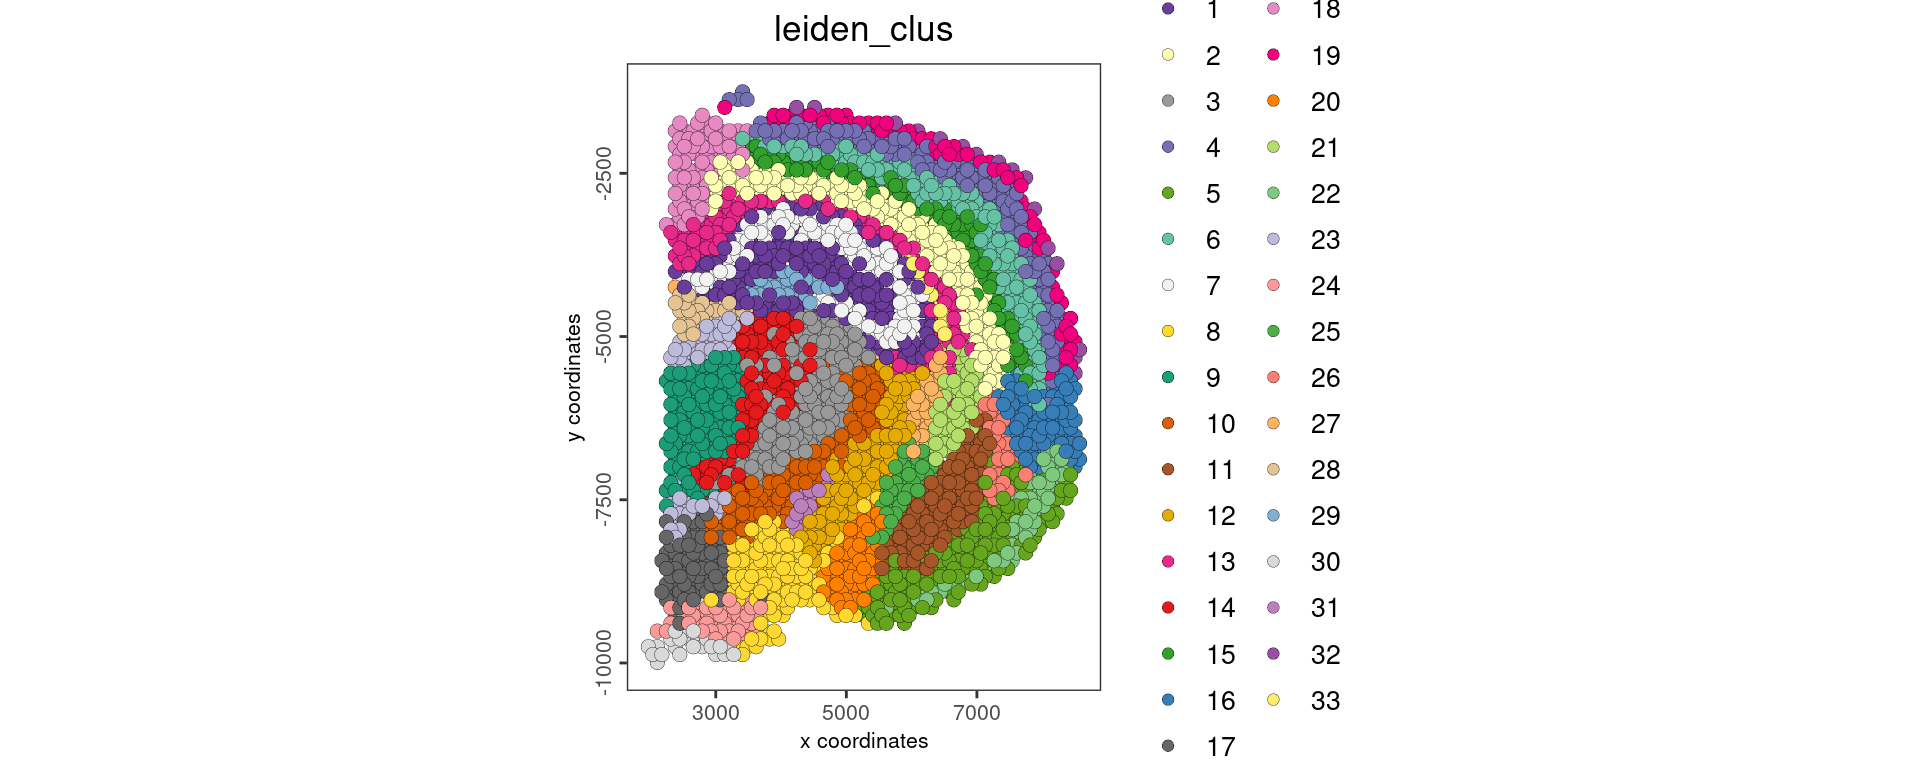
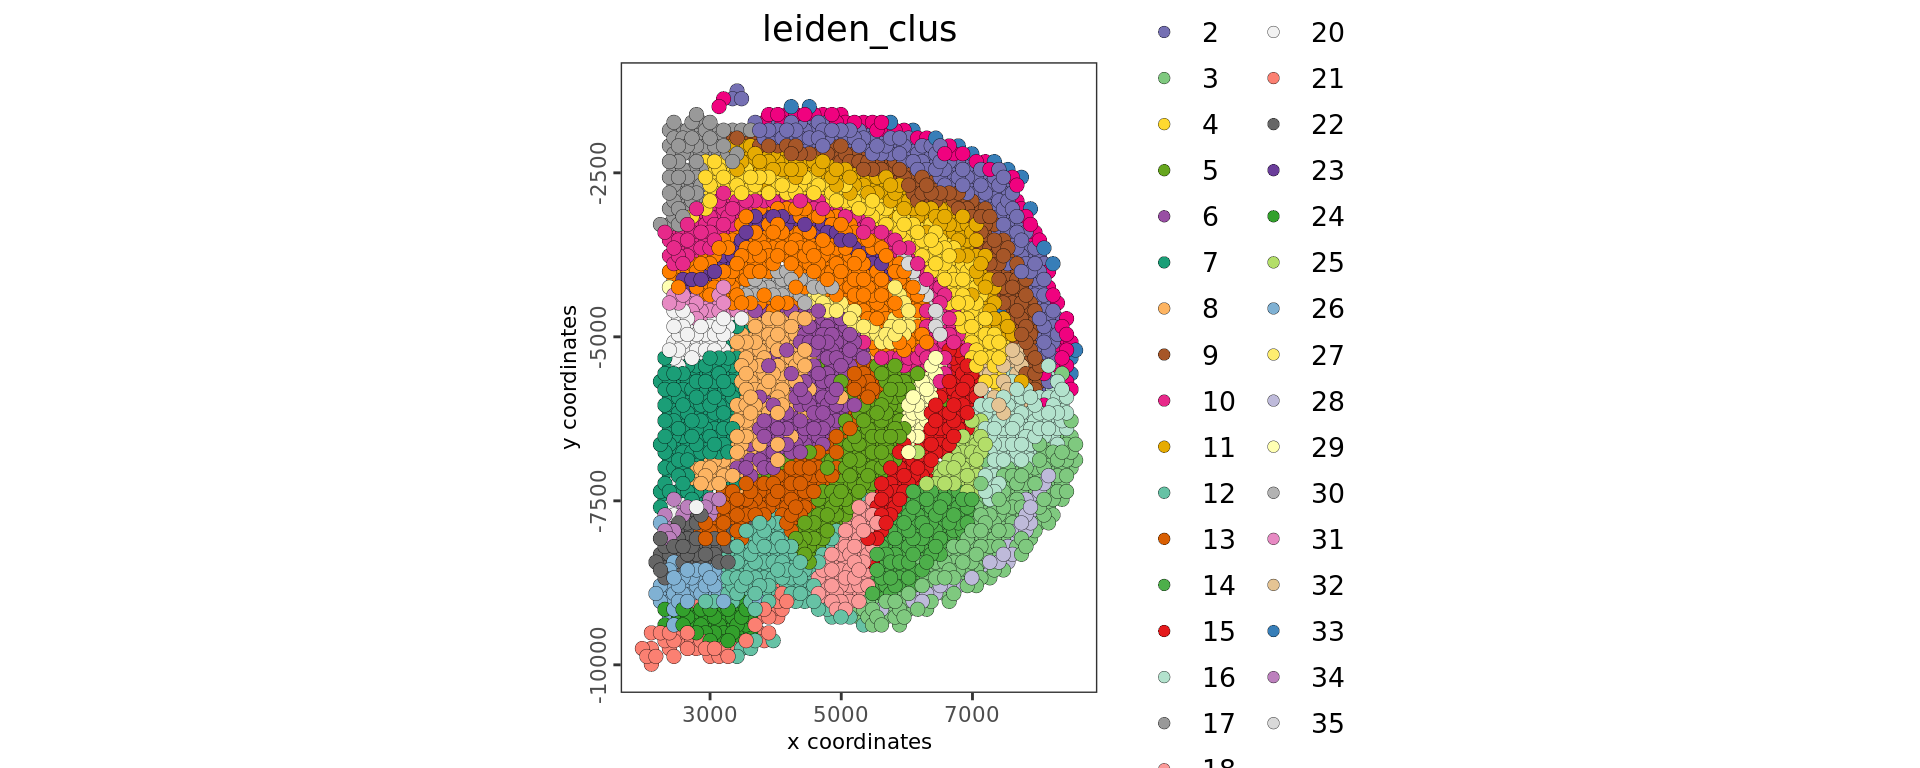
up

Changed region(s): [[0.2812, 0.0, 0.7188, 1.0], [0.5938, 0.2188, 0.625, 0.25], [0.5938, 0.1562, 0.625, 0.1875]]

diff --git a/docs/Giotto.html b/docs/Giotto.html
@@ -443,7 +443,7 @@ aria-hidden="true"></span> </a>
 <div class="tab-content">
 <div id="summary" class="tab-pane fade in active">
 <p>
-<strong>Last updated:</strong> 2025-04-13
+<strong>Last updated:</strong> 2025-06-05
 </p>
 <p>
 <strong>Checks:</strong> <span
@@ -613,6 +613,7 @@ Ignored files:
     Ignored:    .RData
     Ignored:    .Rhistory
     Ignored:    .Rproj.user/
+    Ignored:    analysis/figure/
 
 Untracked files:
     Untracked:  KODAMA.svg
@@ -640,17 +641,12 @@ Untracked files:
     Untracked:  code/VisiumHDassignment.py
     Untracked:  code/deep learning code DLPFC.R
     Untracked:  code/save tiles.py
-    Untracked:  data/Adenocarcinoma.csv
     Untracked:  data/Annotations/
     Untracked:  data/DLFPC-Br5292-input.RData
     Untracked:  data/DLFPC-Br5595-input.RData
     Untracked:  data/DLFPC-Br8100-input.RData
     Untracked:  data/DLPFC-general.RData
     Untracked:  data/MERFISH-input.RData
-    Untracked:  data/spots_classification_ALL.csv
-    Untracked:  data/spots_classification_Acinar_Cell_Carcinoma.csv
-    Untracked:  data/spots_classification_IF.csv
-    Untracked:  data/spots_classification_Normal_prostate.csv
     Untracked:  data/trajectories.RData
     Untracked:  data/trajectories_VISIUMHD.RData
     Untracked:  output/BANSKY-results.RData
@@ -688,6 +684,16 @@ Untracked files:
     Untracked:  output/KODAMA_DLPFC_Br5595.svg
     Untracked:  output/KODAMA_DLPFC_Br5595_slide.svg
     Untracked:  output/Loupe.csv
+    Untracked:  output/Loupe_CXCL14.csv
+    Untracked:  output/Loupe_CXCL3.csv
+    Untracked:  output/Loupe_GREM1.csv
+    Untracked:  output/Loupe_HTRA3.csv
+    Untracked:  output/Loupe_IGFBP3.csv
+    Untracked:  output/Loupe_IGFBP5.csv
+    Untracked:  output/Loupe_MGP.csv
+    Untracked:  output/Loupe_MMP11.csv
+    Untracked:  output/Loupe_SFRP4.csv
+    Untracked:  output/Loupe_TIMP3.csv
     Untracked:  output/MERFISH-BANSKY-results.RData
     Untracked:  output/MERFISH-BASS-results.RData
     Untracked:  output/MERFISH-BayesSpace-results.RData
@@ -696,6 +702,9 @@ Untracked files:
     Untracked:  output/MERFISH-PRECAST-results.RData
     Untracked:  output/MERFISH.RData
     Untracked:  output/Nonspatial-results.RData
+    Untracked:  output/Prostate-GSEA.csv
+    Untracked:  output/Prostate-KODAMA.RData
+    Untracked:  output/Prostate-trajectory.csv
     Untracked:  output/Prostate.RData
     Untracked:  output/VisiumHD-RNA.RData
     Untracked:  output/VisiumHD-genes.pdf
@@ -711,10 +720,6 @@ Untracked files:
     Untracked:  output/prostate1.svg
     Untracked:  output/prostate2.svg
     Untracked:  output/prostate3.svg
-    Untracked:  output/prostate4.svg
-    Untracked:  output/prostate5.svg
-    Untracked:  output/prostate6.svg
-    Untracked:  output/prostate7.svg
     Untracked:  output/subclusters1.csv
     Untracked:  output/subclusters2.csv
     Untracked:  output/subclusters3.csv
@@ -783,6 +788,8 @@ Unstaged changes:
     Modified:   analysis/VisiumHD.Rmd
     Modified:   code/VisiumHD_CRC_download.sh
     Deleted:    data/Pathology.csv
+    Deleted:    data/merfish.Rmd
+    Deleted:    data/vis.R
 
 </code></pre>
 <p>
@@ -1234,10 +1241,97 @@ Finished parallel computation
 <pre class="r"><code>visium_brain &lt;- createNearestNetwork(gobject = visium_brain,dim_reduction_to_use = &quot;KODAMA&quot;, dim_reduction_name=&quot;KODAMA&quot;,dimensions_to_use = 1:2, k = 15)
 
 ## Leiden clustering
-#visium_brain &lt;- doLeidenCluster(gobject = visium_brain, resolution = 0.5, n_iterations = 1000,network_name = &quot;sNN.KODAMA&quot;)
+visium_brain &lt;- doLeidenCluster(gobject = visium_brain, resolution = 0.5, n_iterations = 1000,network_name = &quot;sNN.KODAMA&quot;)
 
-#dimPlot2D(gobject = visium_brain, dim_reduction_to_use =&quot;KODAMA&quot;, dim_reduction_name=&quot;KODAMA&quot;,cell_color = &#39;leiden_clus&#39;,point_size = 2)
-#spatPlot2D(gobject = visium_brain,cell_color = &#39;leiden_clus&#39;,point_size = 2.5)</code></pre>
+dimPlot2D(gobject = visium_brain, dim_reduction_to_use =&quot;KODAMA&quot;, dim_reduction_name=&quot;KODAMA&quot;,cell_color = &#39;leiden_clus&#39;,point_size = 2)</code></pre>
+<p><img src="figure/Giotto.Rmd/unnamed-chunk-7-1.png" width="960" style="display: block; margin: auto;" /></p>
+<p>
+<button type="button" class="btn btn-default btn-xs btn-workflowr btn-workflowr-fig" data-toggle="collapse" data-target="#fig-unnamed-chunk-7-1">
+Past versions of unnamed-chunk-7-1.png
+</button>
+</p>
+<div id="fig-unnamed-chunk-7-1" class="collapse">
+<div class="table-responsive">
+<table class="table table-condensed table-hover">
+<thead>
+<tr>
+<th>
+Version
+</th>
+<th>
+Author
+</th>
+<th>
+Date
+</th>
+</tr>
+</thead>
+<tbody>
+<tr>
+<td>
+<a href="https://github.com/tkcaccia/KODAMA-Analysis/blob/6f7daaccbcc7b968bc736664a45f9ebcaf73fba3/docs/figure/Giotto.Rmd/unnamed-chunk-7-1.png" target="_blank">6f7daac</a>
+</td>
+<td>
+Stefano Cacciatore
+</td>
+<td>
+2024-07-19
+</td>
+</tr>
+<tr>
+<td>
+<a href="https://github.com/tkcaccia/KODAMA-Analysis/blob/911c63e13eb2b8e91f9a23137ffb1af82d54083b/docs/figure/Giotto.Rmd/unnamed-chunk-7-1.png" target="_blank">911c63e</a>
+</td>
+<td>
+GitHub
+</td>
+<td>
+2024-07-16
+</td>
+</tr>
+</tbody>
+</table>
+</div>
+</div>
+<pre class="r"><code>spatPlot2D(gobject = visium_brain,cell_color = &#39;leiden_clus&#39;,point_size = 2.5)</code></pre>
+<p><img src="figure/Giotto.Rmd/unnamed-chunk-7-2.png" width="960" style="display: block; margin: auto;" /></p>
+<p>
+<button type="button" class="btn btn-default btn-xs btn-workflowr btn-workflowr-fig" data-toggle="collapse" data-target="#fig-unnamed-chunk-7-2">
+Past versions of unnamed-chunk-7-2.png
+</button>
+</p>
+<div id="fig-unnamed-chunk-7-2" class="collapse">
+<div class="table-responsive">
+<table class="table table-condensed table-hover">
+<thead>
+<tr>
+<th>
+Version
+</th>
+<th>
+Author
+</th>
+<th>
+Date
+</th>
+</tr>
+</thead>
+<tbody>
+<tr>
+<td>
+<a href="https://github.com/tkcaccia/KODAMA-Analysis/blob/6f7daaccbcc7b968bc736664a45f9ebcaf73fba3/docs/figure/Giotto.Rmd/unnamed-chunk-7-2.png" target="_blank">6f7daac</a>
+</td>
+<td>
+Stefano Cacciatore
+</td>
+<td>
+2024-07-19
+</td>
+</tr>
+</tbody>
+</table>
+</div>
+</div>
 <br>
 <p>
 <button type="button" class="btn btn-default btn-workflowr btn-workflowr-sessioninfo" data-toggle="collapse" data-target="#workflowr-sessioninfo" style="display: block;">
@@ -1277,68 +1371,68 @@ other attached packages:
 [13] minerva_1.5.10    workflowr_1.7.1  
 
 loaded via a namespace (and not attached):
-  [1] rstudioapi_0.17.1           jsonlite_2.0.0             
-  [3] magrittr_2.0.3              magick_2.8.6               
-  [5] farver_2.1.2                rmarkdown_2.29             
-  [7] fs_1.6.5                    zlibbioc_1.50.0            
-  [9] vctrs_0.6.5                 GiottoUtils_0.2.4          
- [11] askpass_1.2.1               terra_1.8-42               
- [13] htmltools_0.5.8.1           S4Arrays_1.4.1             
- [15] SparseArray_1.4.8           sass_0.4.9                 
- [17] parallelly_1.43.0           bslib_0.9.0                
- [19] htmlwidgets_1.6.4           plotly_4.10.4              
- [21] cachem_1.1.0                whisker_0.4.1              
- [23] misc3d_0.9-1                lifecycle_1.0.4            
- [25] pkgconfig_2.0.3             rsvd_1.0.5                 
- [27] R6_2.6.1                    fastmap_1.2.0              
- [29] GenomeInfoDbData_1.2.12     MatrixGenerics_1.16.0      
- [31] future_1.34.0               digest_0.6.37              
- [33] colorspace_2.1-1            S4Vectors_0.42.1           
- [35] ps_1.9.0                    rprojroot_2.0.4            
- [37] irlba_2.3.5.1               RSpectra_0.16-2            
- [39] GenomicRanges_1.56.2        beachmat_2.20.0            
- [41] labeling_0.4.3              httr_1.4.7                 
- [43] abind_1.4-8                 compiler_4.4.3             
- [45] proxy_0.4-27                withr_3.0.2                
- [47] backports_1.5.0             BiocParallel_1.38.0        
- [49] R.utils_2.13.0              openssl_2.3.2              
- [51] rappdirs_0.3.3              DelayedArray_0.30.1        
- [53] rjson_0.2.23                gtools_3.9.5               
- [55] GiottoVisuals_0.2.12        tools_4.4.3                
- [57] httpuv_1.6.15               future.apply_1.11.3        
- [59] R.oo_1.27.0                 glue_1.8.0                 
- [61] dbscan_1.2.2                callr_3.7.6                
- [63] promises_1.3.2              grid_4.4.3                 
- [65] checkmate_2.3.2             getPass_0.2-4              
- [67] snow_0.4-4                  generics_0.1.3             
- [69] gtable_0.3.6                R.methodsS3_1.8.2          
- [71] class_7.3-23                tidyr_1.3.1                
- [73] data.table_1.17.0           ScaledMatrix_1.12.0        
- [75] BiocSingular_1.20.0         XVector_0.44.0             
- [77] BiocGenerics_0.50.0         ggrepel_0.9.6              
- [79] pillar_1.10.1               stringr_1.5.1              
- [81] later_1.4.1                 dplyr_1.1.4                
- [83] lattice_0.22-7              tidyselect_1.2.1           
- [85] Rnanoflann_0.0.3            SingleCellExperiment_1.26.0
- [87] knitr_1.50                  git2r_0.33.0               
- [89] IRanges_2.38.1              SummarizedExperiment_1.34.0
- [91] scattermore_1.2             stats4_4.4.3               
- [93] xfun_0.51                   Biobase_2.64.0             
- [95] matrixStats_1.5.0           stringi_1.8.7              
- [97] UCSC.utils_1.0.0            lazyeval_0.2.2             
- [99] yaml_2.3.10                 evaluate_1.0.3             
-[101] codetools_0.2-20            tcltk_4.4.3                
-[103] tibble_3.2.1                colorRamp2_0.1.0           
-[105] cli_3.6.4                   reticulate_1.42.0          
-[107] munsell_0.5.1               processx_3.8.6             
-[109] jquerylib_0.1.4             Rcpp_1.0.14                
-[111] GenomeInfoDb_1.40.1         doSNOW_1.0.20              
-[113] globals_0.16.3              png_0.1-8                  
-[115] ggplot2_3.5.1               listenv_0.9.1              
-[117] SpatialExperiment_1.14.0    viridisLite_0.4.2          
-[119] scales_1.3.0                purrr_1.0.4                
-[121] crayon_1.5.3                rlang_1.1.5                
-[123] cowplot_1.1.3              </code></pre>
+  [1] RColorBrewer_1.1-3          rstudioapi_0.17.1          
+  [3] jsonlite_2.0.0              magrittr_2.0.3             
+  [5] magick_2.8.6                farver_2.1.2               
+  [7] rmarkdown_2.29              fs_1.6.5                   
+  [9] zlibbioc_1.50.0             vctrs_0.6.5                
+ [11] GiottoUtils_0.2.4           askpass_1.2.1              
+ [13] terra_1.8-42                htmltools_0.5.8.1          
+ [15] S4Arrays_1.4.1              SparseArray_1.4.8          
+ [17] sass_0.4.9                  parallelly_1.43.0          
+ [19] bslib_0.9.0                 htmlwidgets_1.6.4          
+ [21] plotly_4.10.4               cachem_1.1.0               
+ [23] whisker_0.4.1               misc3d_0.9-1               
+ [25] lifecycle_1.0.4             pkgconfig_2.0.3            
+ [27] rsvd_1.0.5                  R6_2.6.1                   
+ [29] fastmap_1.2.0               GenomeInfoDbData_1.2.12    
+ [31] MatrixGenerics_1.16.0       future_1.34.0              
+ [33] digest_0.6.37               colorspace_2.1-1           
+ [35] S4Vectors_0.42.1            ps_1.9.0                   
+ [37] rprojroot_2.0.4             irlba_2.3.5.1              
+ [39] RSpectra_0.16-2             GenomicRanges_1.56.2       
+ [41] beachmat_2.20.0             labeling_0.4.3             
+ [43] httr_1.4.7                  abind_1.4-8                
+ [45] compiler_4.4.3              proxy_0.4-27               
+ [47] withr_3.0.2                 backports_1.5.0            
+ [49] BiocParallel_1.38.0         R.utils_2.13.0             
+ [51] openssl_2.3.2               rappdirs_0.3.3             
+ [53] DelayedArray_0.30.1         rjson_0.2.23               
+ [55] gtools_3.9.5                GiottoVisuals_0.2.12       
+ [57] tools_4.4.3                 httpuv_1.6.15              
+ [59] future.apply_1.11.3         R.oo_1.27.0                
+ [61] glue_1.8.0                  dbscan_1.2.2               
+ [63] callr_3.7.6                 promises_1.3.2             
+ [65] grid_4.4.3                  checkmate_2.3.2            
+ [67] getPass_0.2-4               snow_0.4-4                 
+ [69] generics_0.1.3              gtable_0.3.6               
+ [71] R.methodsS3_1.8.2           class_7.3-23               
+ [73] tidyr_1.3.1                 data.table_1.17.0          
+ [75] ScaledMatrix_1.12.0         BiocSingular_1.20.0        
+ [77] XVector_0.44.0              BiocGenerics_0.50.0        
+ [79] ggrepel_0.9.6               pillar_1.10.2              
+ [81] stringr_1.5.1               later_1.4.2                
+ [83] dplyr_1.1.4                 lattice_0.22-7             
+ [85] tidyselect_1.2.1            Rnanoflann_0.0.3           
+ [87] SingleCellExperiment_1.26.0 knitr_1.50                 
+ [89] git2r_0.33.0                IRanges_2.38.1             
+ [91] SummarizedExperiment_1.34.0 scattermore_1.2            
+ [93] stats4_4.4.3                xfun_0.52                  
+ [95] Biobase_2.64.0              matrixStats_1.5.0          
+ [97] stringi_1.8.7               UCSC.utils_1.0.0           
+ [99] lazyeval_0.2.2              yaml_2.3.10                
+[101] evaluate_1.0.3              codetools_0.2-20           
+[103] tcltk_4.4.3                 tibble_3.2.1               
+[105] colorRamp2_0.1.0            cli_3.6.4                  
+[107] reticulate_1.42.0           munsell_0.5.1              
+[109] processx_3.8.6              jquerylib_0.1.4            
+[111] Rcpp_1.0.14                 GenomeInfoDb_1.40.1        
+[113] doSNOW_1.0.20               globals_0.16.3             
+[115] png_0.1-8                   ggplot2_3.5.2              
+[117] listenv_0.9.1               SpatialExperiment_1.14.0   
+[119] viridisLite_0.4.2           scales_1.3.0               
+[121] purrr_1.0.4                 crayon_1.5.3               
+[123] rlang_1.1.5                 cowplot_1.1.3              </code></pre>
 </div>
 </div>
 </div>
